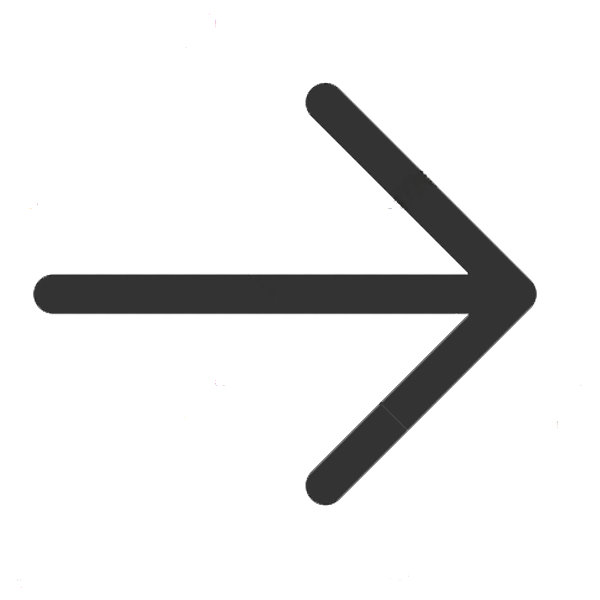
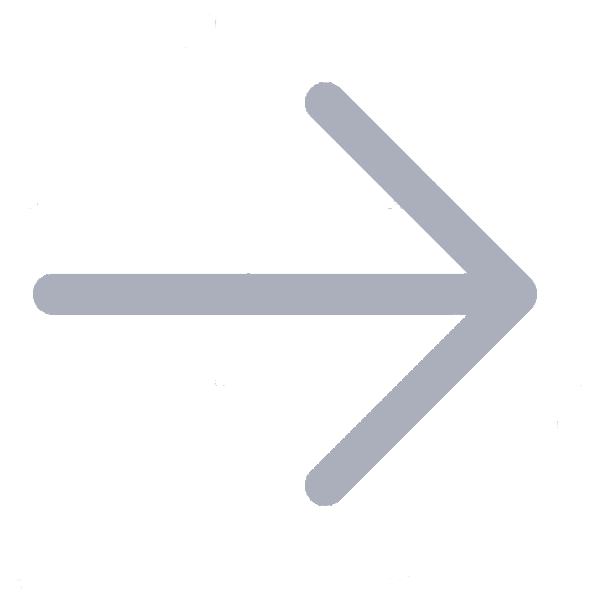
changed the color of arrow image

Changed region(s): [[0.03, 0.12, 0.9, 0.84]]

diff --git a/app/page.tsx b/app/page.tsx
@@ -27,7 +27,7 @@ export default function Chat() {
         <div className="w-full">
           <form className="w-full" onSubmit={handleSubmit}>
             <input
-              className="absolute bottom-[20px] z-[3] w-[calc(100%_-_80px)] rounded p-3"
+              className="absolute bottom-[20px] z-[3] w-[calc(100%_-_80px)] rounded-[25px] p-3"
               value={input}
               placeholder="What will I get for Chrismas?"
               onChange={handleInputChange}
